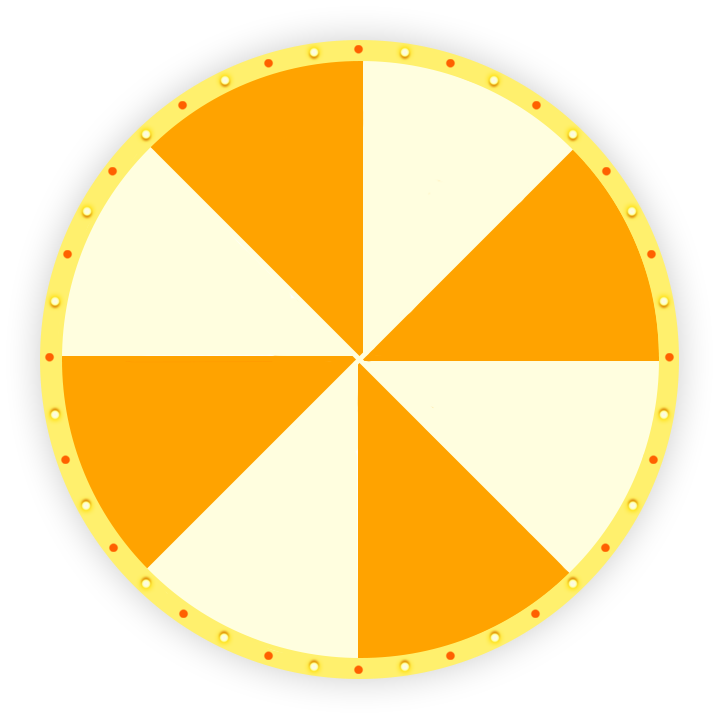
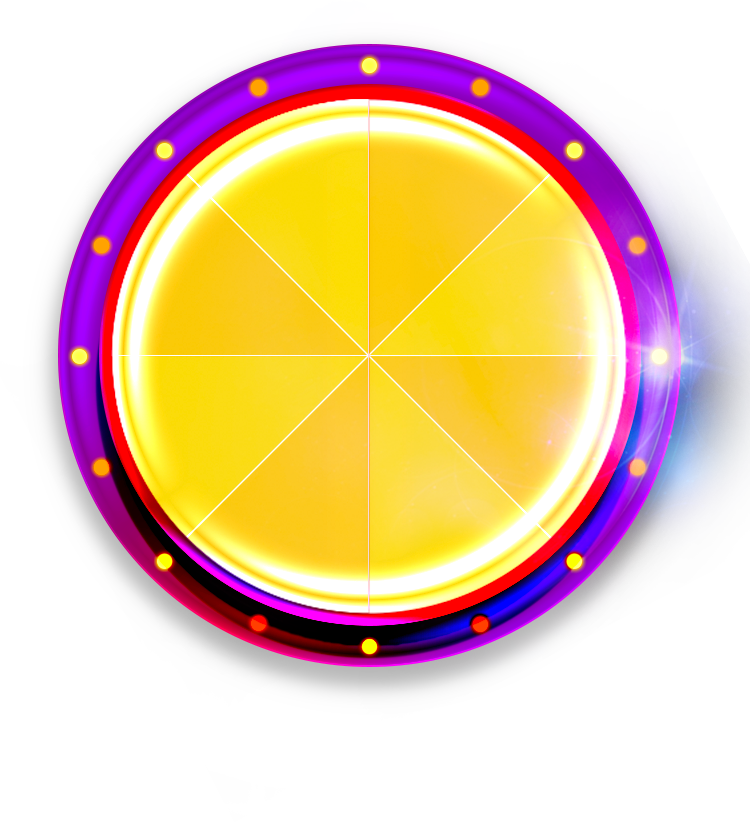
首页抽奖 未完成

diff --git a/src/pages/lottery/AnimatedTurnTableDrawPage.js b/src/pages/lottery/AnimatedTurnTableDrawPage.js
@@ -9,7 +9,6 @@
 
 import React, {Component} from "react"
 import {Animated, Easing, View, TouchableOpacity, Modal, Image, StyleSheet, Dimensions, Text} from "react-native"
-import {Metrics} from "../../Themes";
 
 export default class AnimatedTurnTableDrawPage extends Component {
 
@@ -95,6 +94,7 @@ export default class AnimatedTurnTableDrawPage extends Component {
                     justifyContent: 'center',
                     backgroundColor: 'rgba(0,0,0,0.6)'
                 }}>
+                    <Image source={require('./imgs/turntable.png')} style={{width:200,height:150,top:60,alignSelf:'center',zIndex:1000}}/>
                     <View style={styles.lottery_container}>
                         <Animated.View style={[styles.mainImg, {
                             transform: [{
@@ -105,7 +105,7 @@ export default class AnimatedTurnTableDrawPage extends Component {
                             }]
                         }]}>
                             <View style={{height: 360, width: 360, alignItems: "center"}}>
-                                <Image style={{position: "absolute", height: 360, width: 360, resizeMode: 'stretch'}}
+                                <Image style={{position: "absolute", height: 430, width: 400, resizeMode: 'stretch'}}
                                        source={require('./imgs/circle_bg.png')}/>
                                 {this.state.drawData.map((one, index) => {
                                     const rotateDeg = 22.5;
@@ -179,14 +179,14 @@ export default class AnimatedTurnTableDrawPage extends Component {
                         }} style={styles.centerPoint}>
                             <Image source={require('./imgs/point_new.png')}
                                    style={{height: 134, width: 107, resizeMode: "stretch", position: "absolute"}}/>
-                            <Text style={{
-                                color: "#ffffff",
-                                textAlign: "center",
-                                fontSize: 17,
-                                fontWeight: 'bold',
-                                width: 45,
-                                marginTop: 20
-                            }}>{"开始抽奖" || "start game"}</Text>
+                            {/*<Text style={{*/}
+                                {/*color: "#ffffff",*/}
+                                {/*textAlign: "center",*/}
+                                {/*fontSize: 17,*/}
+                                {/*fontWeight: 'bold',*/}
+                                {/*width: 45,*/}
+                                {/*marginTop: 20*/}
+                            {/*}}>{"开始抽奖" || "start game"}</Text>*/}
                         </TouchableOpacity>
                     </View>
 
@@ -197,11 +197,11 @@ export default class AnimatedTurnTableDrawPage extends Component {
                     }}
                     style={{
                         position:'absolute',
-                        top:30,
-                        right:20,
+                        top:140,
+                        right:40,
                         zIndex:999
                     }}>
-                        <Text style={{fontSize:30,color:'white'}}>X</Text>
+                        <Image source={require('./imgs/lottery_close.png')} style={{width:30,height:30}}/>
                     </TouchableOpacity>
                 </View>
             </Modal>
@@ -222,7 +222,7 @@ const styles = StyleSheet.create({
     centerPoint: {
         position: 'absolute',
         left: Dimensions.get('window').width / 2 - 53,
-        top: 100,
+        top: 110,
         zIndex: 100,
         height: 134,
         width: 107,
